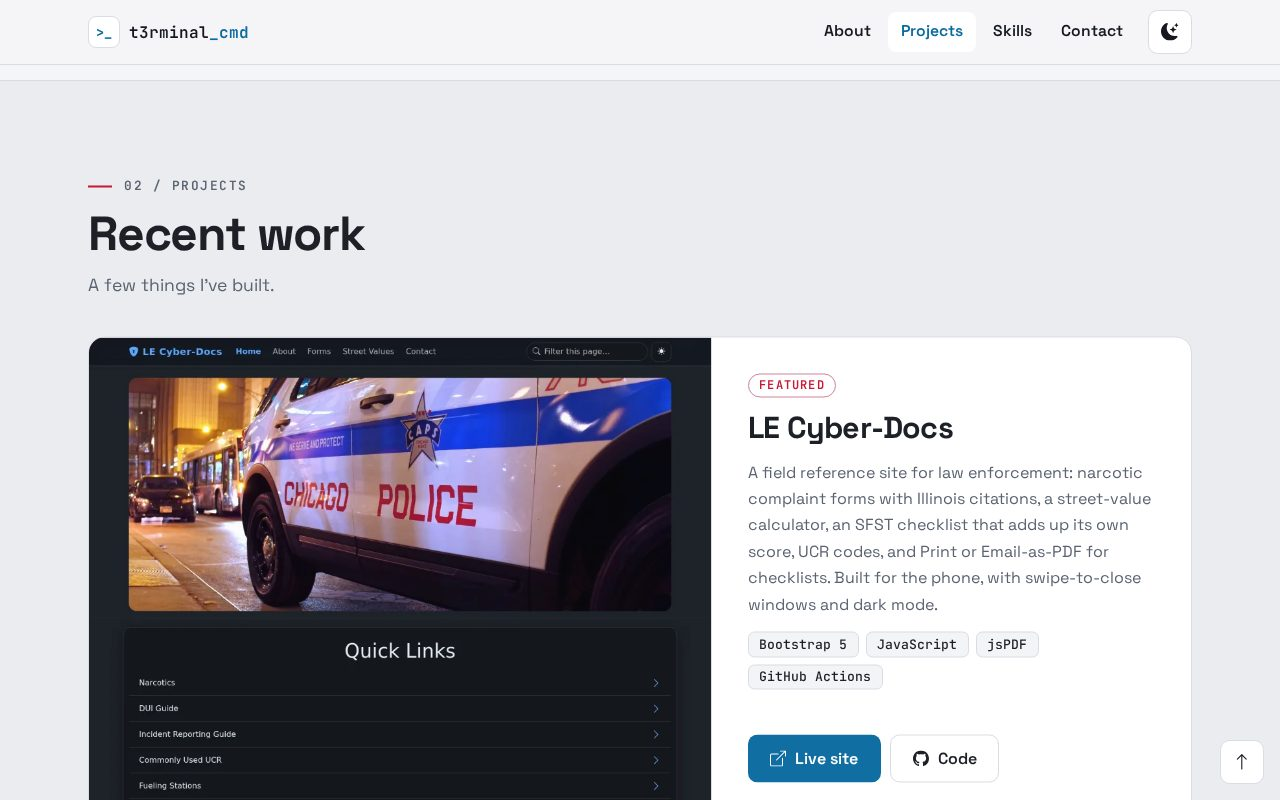
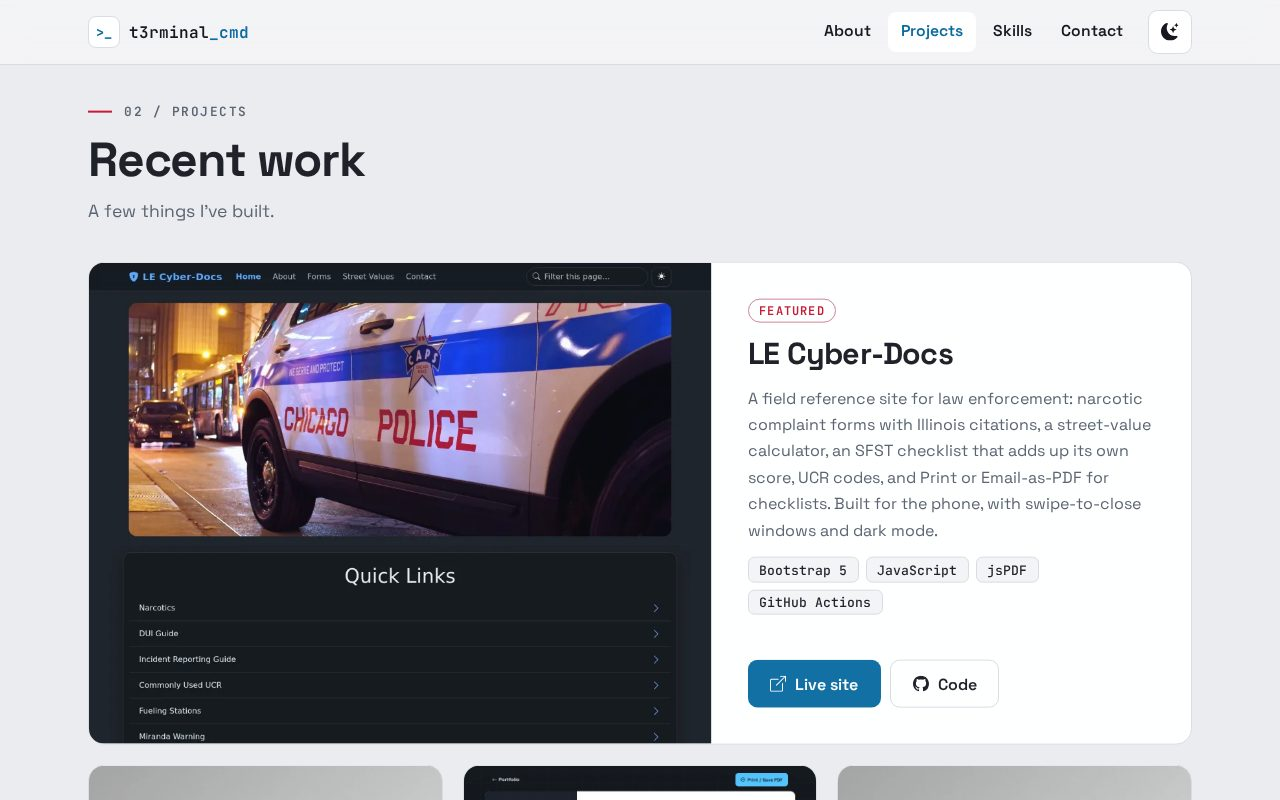
README: show LE Cyber-Docs full width and drop the phone screenshot
Replace the side-by-side projects and phone screenshots with one
full-width screenshot of the projects section, framed so the whole
LE Cyber-Docs card is visible.

Claude-Session: https://claude.ai/code/session_01WczYLbDvrap2tUhs166EUz

diff --git a/README.md b/README.md
@@ -6,10 +6,7 @@ My personal portfolio: a single, fast, mobile-first page with my projects, what 
 
 ![Portfolio home page in dark mode](screenshots/desktop-dark.jpg)
 
-<p>
-  <img src="screenshots/desktop-light-projects.jpg" width="66%" alt="Projects section in light mode">
-  <img src="screenshots/phone-dark.jpg" width="30%" alt="Portfolio on a phone in dark mode">
-</p>
+![Projects section in light mode, featuring LE Cyber-Docs](screenshots/desktop-light-projects.jpg)
 
 ## Features
 - **Mobile-first layout.** Phones get a compact photo at the top, a drop-down menu and full-width buttons. Tablets and desktops add columns.
